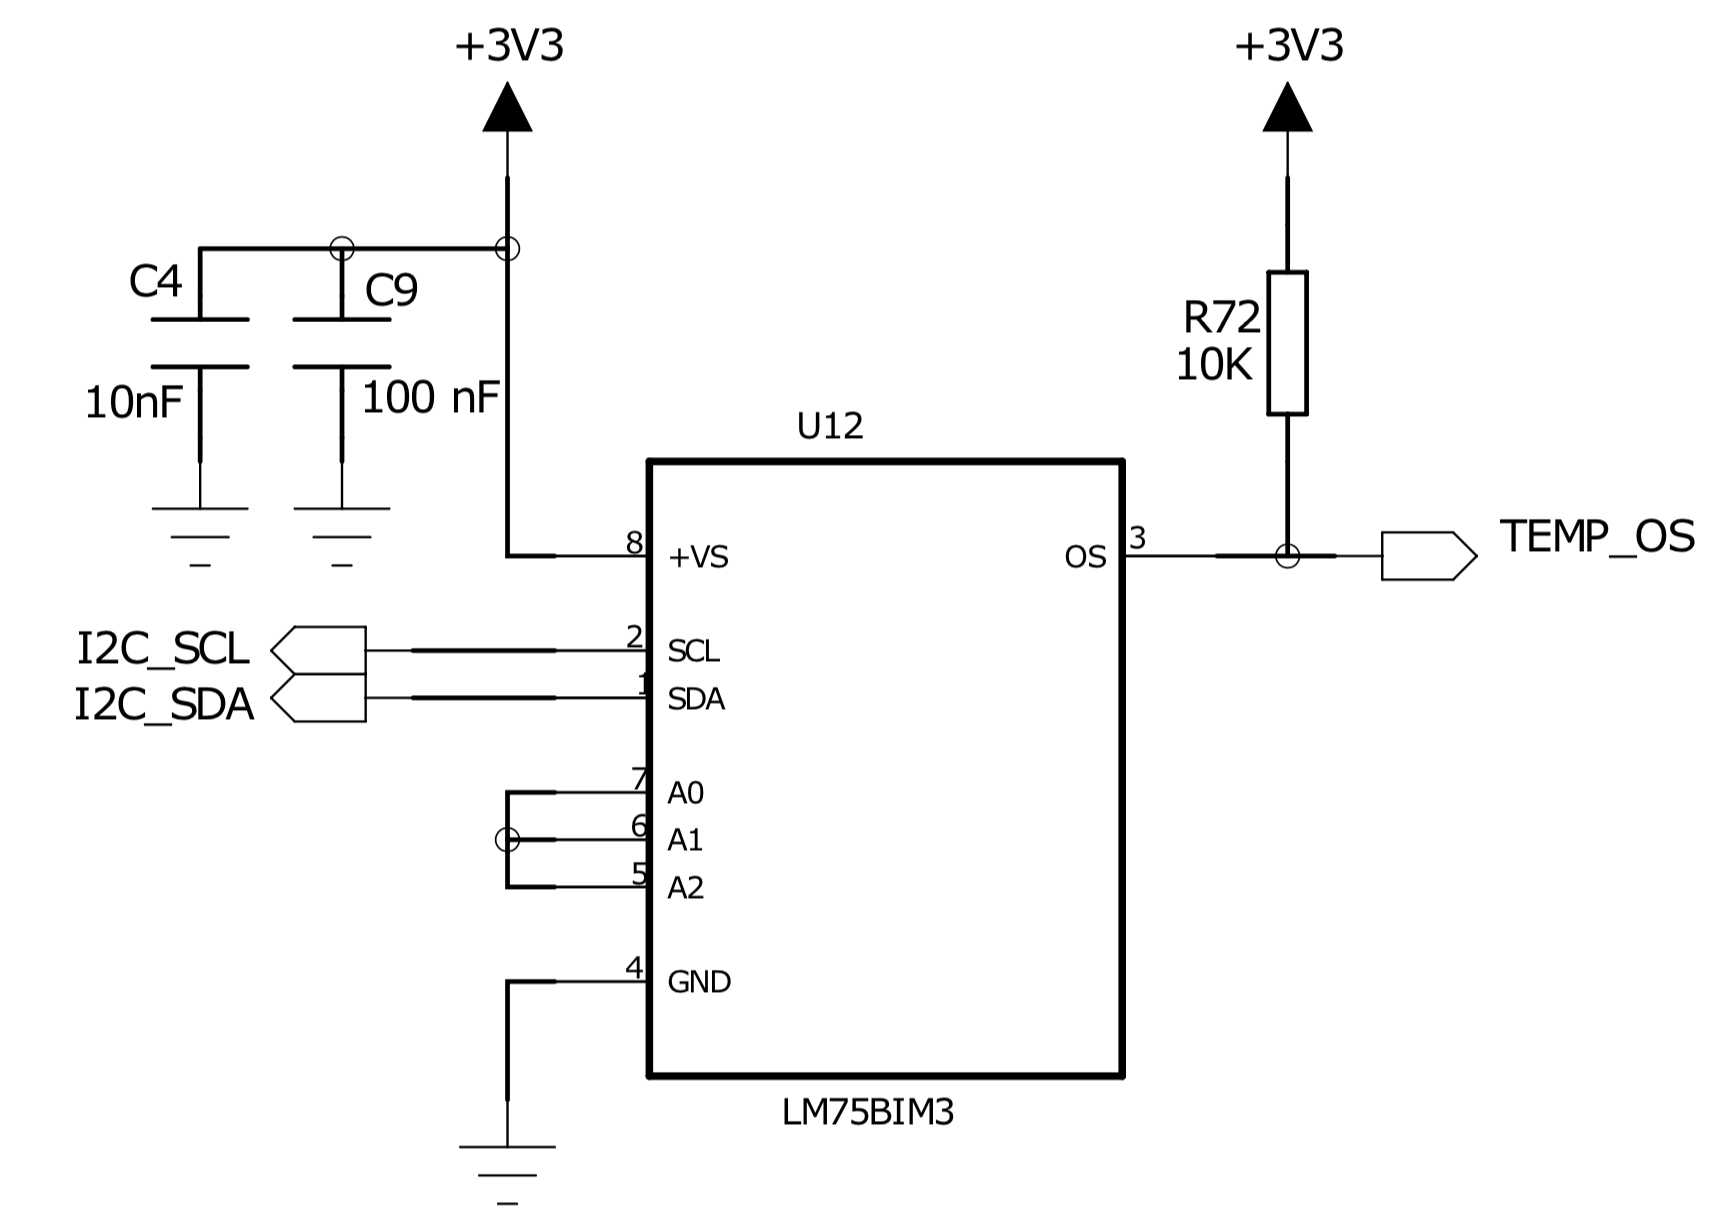
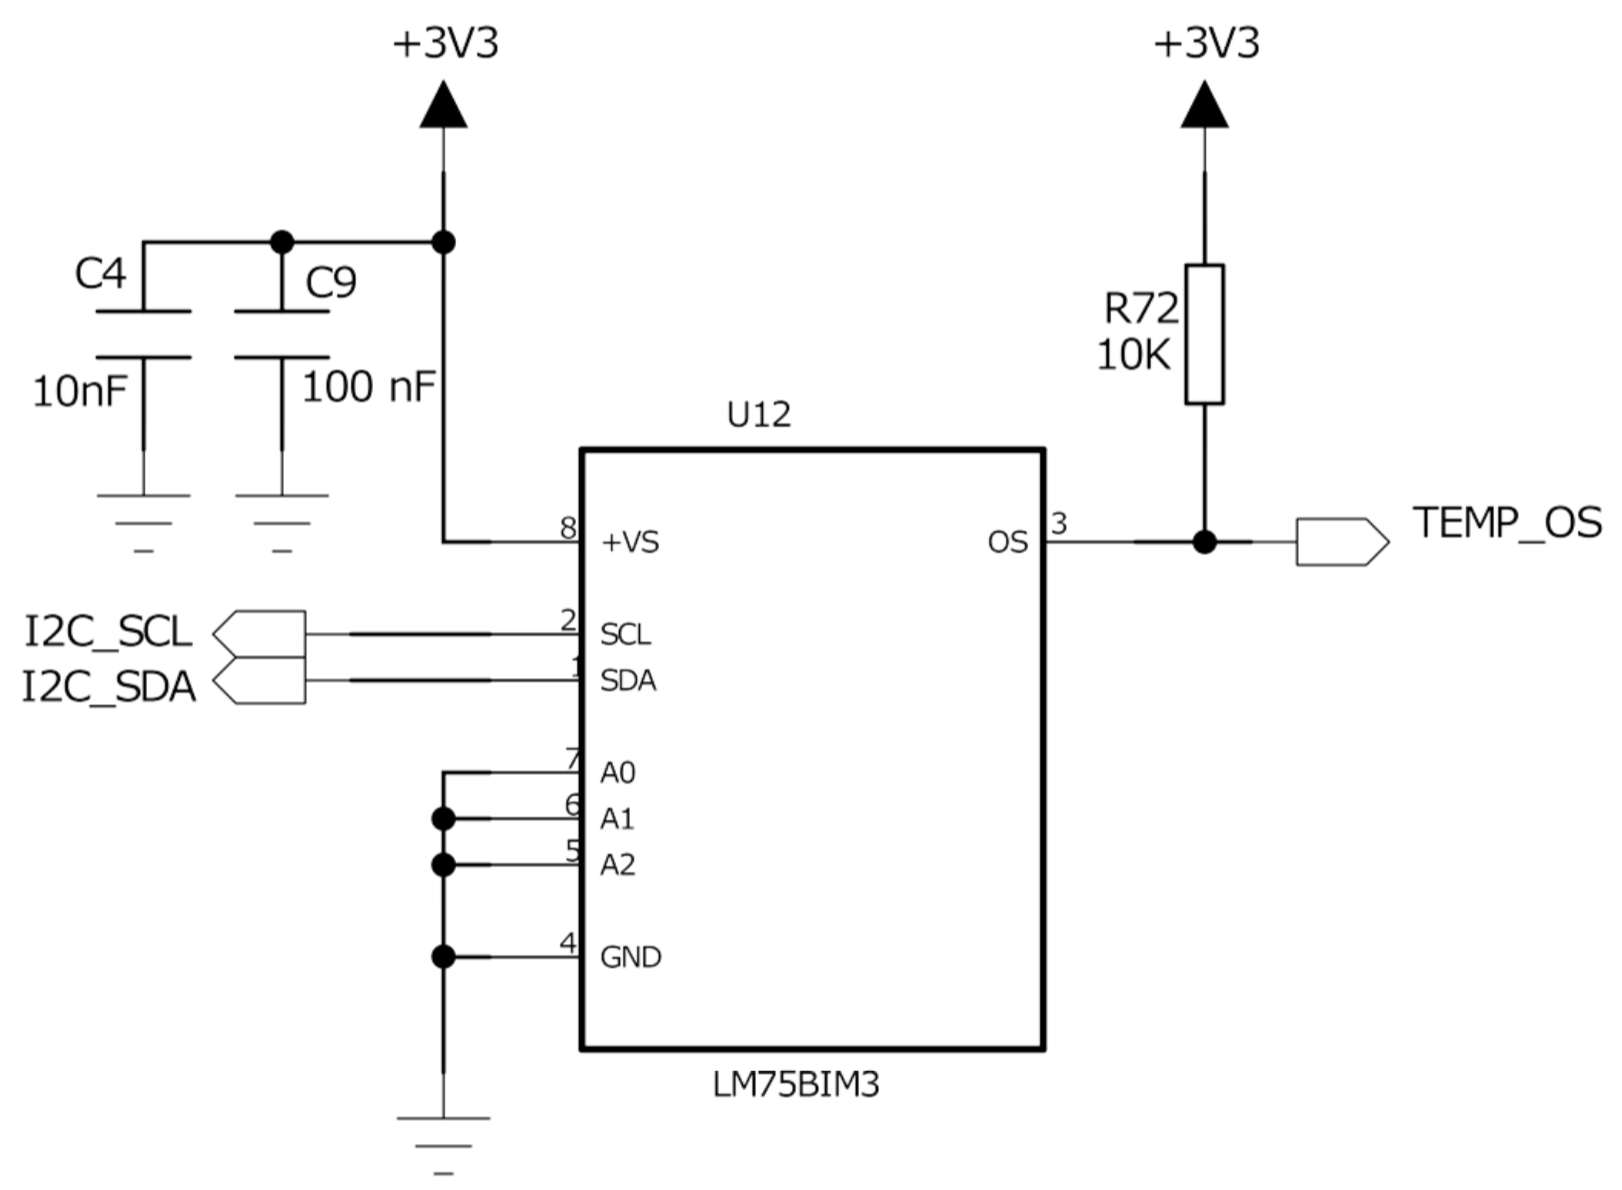
Ændret billeder med fejl og tilføjet appendixes

Changed region(s): [[0.0, 0.0, 0.9864, 0.9639], [0.0617, 0.4042, 0.2158, 0.4664]]

diff --git a/rapport.tex b/rapport.tex
@@ -130,12 +130,13 @@
 %--------- Bilag -------------------
 \appendix
 %\input{section/ord}
-\chapter{Bilag}
+\chapter{Tidsplan}
+\chapter{Schematics Diskret}
+\chapter{Schematics IC}
 \input{section/stykliste}
 %\input{section/symbol}
 %\input{section/stykliste}
 %\input{section/tidsplan}
-%\input{section/diagrammer}
 %\input{section/cd_indhold}
 
 
